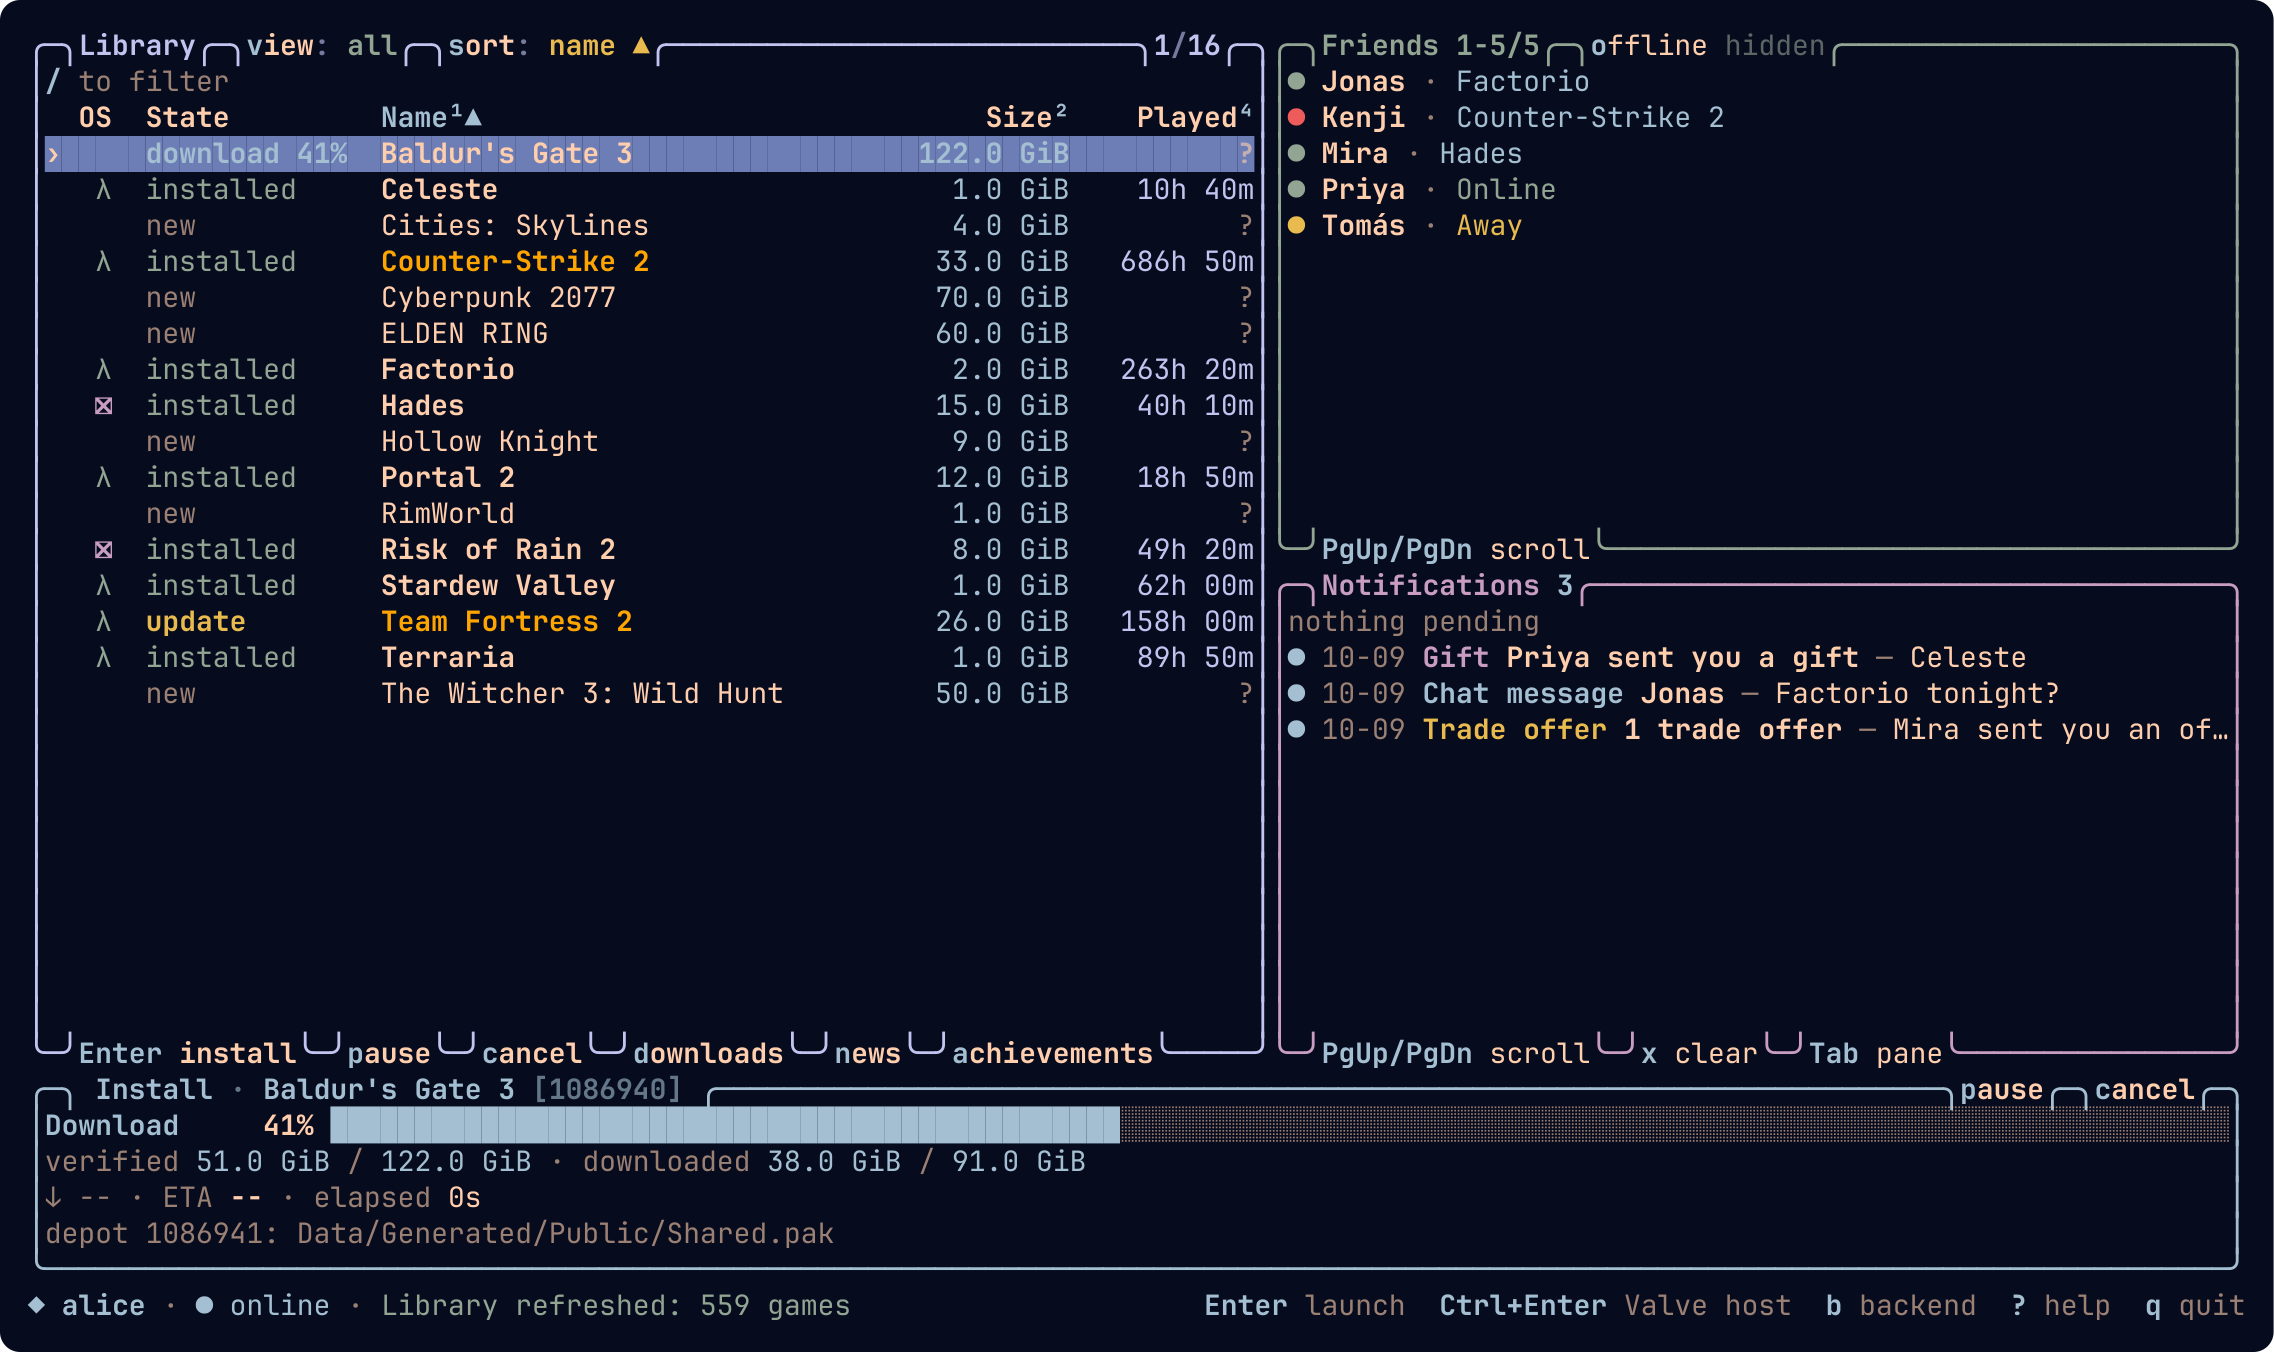
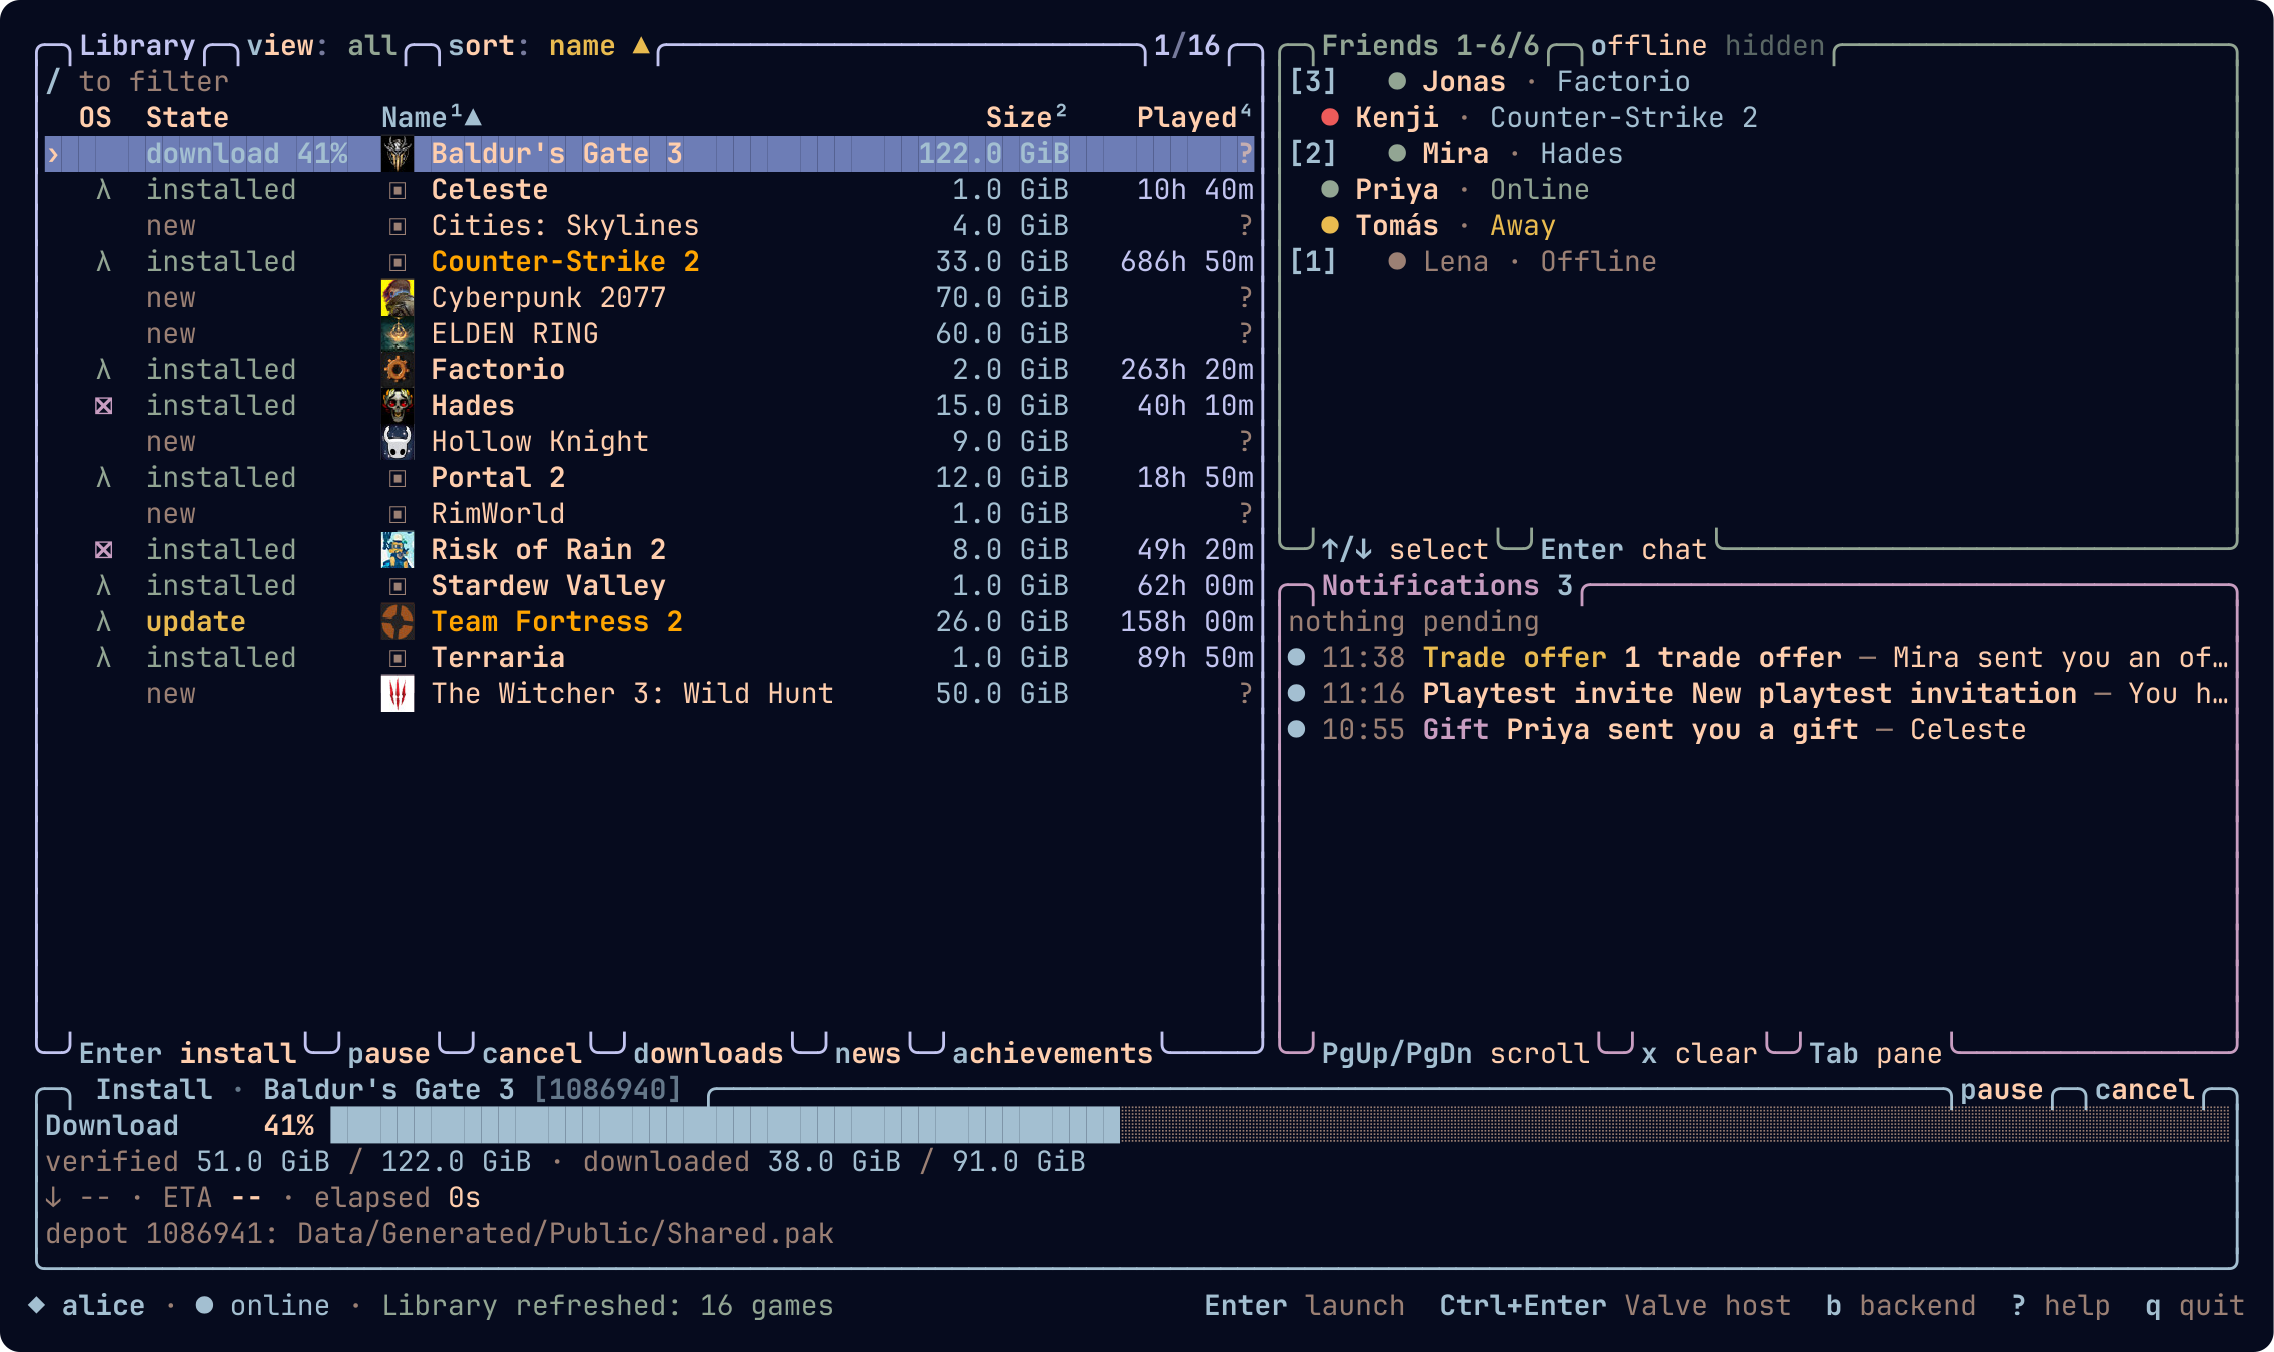
Refresh README screenshots and add chat showcase

diff --git a/crates/steam-tui/src/tui/render.rs b/crates/steam-tui/src/tui/render.rs
@@ -3833,9 +3833,9 @@ mod tests {
     /// `STEAM_TUI_SCREENSHOT=out.svg cargo test -p steam-tui readme_screenshot -- --ignored`
     /// and convert with `rsvg-convert -z 2 out.svg -o assets/screenshot.png`.
     /// Set `STEAM_TUI_SCREENSHOT_THEME` to a terminal theme (an Omarchy `alacritty.toml`) to colour it.
-    #[test]
+    #[tokio::test]
     #[ignore = "writes a file; run by hand"]
-    fn readme_screenshot() {
+    async fn readme_screenshot() {
         use ratatui::style::{Color, Modifier};
         use steam_core::catalog::{InstallPlatform, UpdateStatus};
         use steam_core::friends::{Friend, Presence};
@@ -4048,10 +4048,25 @@ mod tests {
             })
             .collect(),
         );
-        let now = 1_760_000_000;
+        model.chat.available = true;
+        for (index, unread) in [(0, 2), (1, 3), (5, 1)] {
+            model
+                .chat
+                .conversations
+                .entry(76_561_198_000_000_000 + index)
+                .or_default()
+                .unread = unread;
+        }
+        model.filter_chat_friends();
+        let now = 1_792_584_000;
         for (id, label, title, body) in [
             (1, "Trade offer", "1 trade offer", "Mira sent you an offer"),
-            (2, "Chat message", "Jonas", "Factorio tonight?"),
+            (
+                2,
+                "Playtest invite",
+                "New playtest invitation",
+                "You have been invited to a playtest",
+            ),
             (3, "Gift", "Priya sent you a gift", "Celeste"),
         ] {
             model.notification_event(NotificationEvent::Received(Notification {
@@ -4076,9 +4091,9 @@ mod tests {
             verify_bytes_total: 122 << 30,
             message: "depot 1086941: Data/Generated/Public/Shared.pak".into(),
         });
-        model.status = "Library refreshed: 559 games".into();
+        model.status = "Library refreshed: 16 games".into();
 
-        // Optional: STEAM_TUI_SCREENSHOT_SIZE=WxH and STEAM_TUI_SCREENSHOT_VIEW=conflict|filtered
+        // Optional: STEAM_TUI_SCREENSHOT_SIZE=WxH and STEAM_TUI_SCREENSHOT_VIEW=chat|conflict|filtered
         let (width, height) = std::env::var("STEAM_TUI_SCREENSHOT_SIZE")
             .ok()
             .and_then(|size| {
@@ -4086,6 +4101,7 @@ mod tests {
                 Some((w.parse().ok()?, h.parse().ok()?))
             })
             .unwrap_or((132u16, 36u16));
+        let mut shared_image = None;
         match std::env::var("STEAM_TUI_SCREENSHOT_VIEW").as_deref() {
             Ok("conflict") => {
                 use steam_core::cloud::{Conflict, SaveVersion};
@@ -4097,12 +4113,12 @@ mod tests {
                         local: Some(SaveVersion {
                             sha1: "9f2c1ab04d7e5513".into(),
                             size: 18_432,
-                            time: 1_759_900_000,
+                            time: now - 90_000,
                         }),
                         cloud: Some(SaveVersion {
                             sha1: "3b7e90d1c4a8f620".into(),
                             size: 17_920,
-                            time: 1_759_990_000,
+                            time: now - 1_000,
                         }),
                     }],
                     index: 0,
@@ -4111,12 +4127,104 @@ mod tests {
                     error: None,
                 });
             }
+            Ok("chat") => {
+                use steam_core::chat::Message;
+                model.install_active = false;
+                model.active_install = None;
+                model.progress = None;
+                model.focus = Focus::Friends;
+                let friend = 76_561_198_000_000_001;
+                model.friend_selected = model
+                    .friend_order
+                    .iter()
+                    .position(|&i| model.friends[i].steam_id == friend)
+                    .unwrap();
+                model.chat.active = Some(friend);
+                let conversation = model.chat.conversations.entry(friend).or_default();
+                conversation.unread = 0;
+                conversation.loaded = true;
+                conversation.history_loaded = true;
+                conversation.messages = [
+                    (false, "Factory night? I finally connected the northern outpost."),
+                    (true, "I'm in. Show me what you've been building!"),
+                    (false, "Took a break to explore. Found a pretty good spot for the next base.\nhttps://images.steamusercontent.com/ugc/demo/base.png"),
+                ].into_iter().enumerate().map(|(i, (outgoing, text))| Message {
+                    timestamp: now as u32 + i as u32 * 60,
+                    ordinal: 0,
+                    outgoing,
+                    text: text.into(),
+                }).collect();
+                conversation.draft = "That's the spot. I'll bring the supplies.".into();
+                conversation.cursor = conversation.draft.len();
+                conversation.typing = Some(Instant::now());
+                // Fictional shared image: a small pixel landscape, generated locally.
+                let landscape = image::RgbImage::from_fn(160, 80, |x, y| {
+                    let ridge = (37.0 + (x as f32 / 13.0).sin() * 9.0) as u32;
+                    let color = if y > 63 {
+                        [24, 49, 65]
+                    } else if y > ridge {
+                        [35, 65, 75]
+                    } else if (x as i32 - 115).pow(2) + (y as i32 - 23).pow(2) < 100 {
+                        [247, 196, 122]
+                    } else {
+                        [77 + y as u8, 87 + y as u8, 126 + y as u8]
+                    };
+                    image::Rgb(color)
+                });
+                let landscape = std::sync::Arc::new(image::DynamicImage::ImageRgb8(landscape));
+                shared_image = Some(landscape.clone());
+                model.chat.images.prepare_local(
+                    "https://images.steamusercontent.com/ugc/demo/base.png",
+                    landscape,
+                    (80, 12),
+                );
+            }
             Ok("filtered") => {
                 model.key(KeyEvent::new(KeyCode::Char('v'), KeyModifiers::NONE));
             }
             _ => {}
         }
         let mut terminal = Terminal::new(TestBackend::new(width, height)).unwrap();
+        terminal.draw(|frame| draw(frame, &mut model)).unwrap();
+        // Local artwork by default; opt in to public CDN downloads. No account connection is opened.
+        let download_icons = std::env::var_os("STEAM_TUI_SCREENSHOT_DOWNLOAD_ICONS").is_some();
+        let mut icons = Vec::new();
+        while let Some(request) = model.library_icons.pending.pop_front() {
+            let app_id = request.app_id;
+            let icon = steam_core::icons::load(app_id, download_icons)
+                .await
+                .unwrap_or(None);
+            if let Some(icon) = &icon {
+                icons.push((app_id, icon.image.clone()));
+            }
+            model
+                .library_icons
+                .loaded(super::super::library_icons::Loaded {
+                    app_id,
+                    generation: request.generation,
+                    result: Ok(icon),
+                });
+        }
+        // Remember icon slots before the placeholders are replaced by graphics.
+        let slots: Vec<_> = model
+            .library_hits
+            .iter()
+            .filter_map(|(rect, index)| {
+                let id = model.games[model.order[*index]].app_id;
+                let x = (rect.x..rect.right())
+                    .find(|&x| terminal.backend().buffer()[(x, rect.y)].symbol() == "▣")?;
+                Some((id, x, rect.y))
+            })
+            .collect();
+        terminal.draw(|frame| draw(frame, &mut model)).unwrap();
+        while let Some(request) = model.library_icons.images.pending.pop_front() {
+            let loaded = super::super::chat_images::load(request).await;
+            model.library_icons.images.loaded(loaded);
+        }
+        while let Some(request) = model.chat.images.pending.pop_front() {
+            let loaded = super::super::chat_images::load(request).await;
+            model.chat.images.loaded(loaded);
+        }
         terminal.draw(|frame| draw(frame, &mut model)).unwrap();
         let buffer = terminal.backend().buffer();
 
@@ -4217,6 +4325,61 @@ mod tests {
                     py + 13.5
                 ));
             }
+        }
+        if let Some(source) = shared_image {
+            // Native protocols fit the image into the reserved preview rectangle.
+            let image = source.to_rgb8();
+            let row = (0..height)
+                .find(|&y| {
+                    (0..width)
+                        .map(|x| buffer[(x, y)].symbol())
+                        .collect::<String>()
+                        .contains("https://images.steamusercontent.com/ugc/demo/base.png")
+                })
+                .expect("shared image URL is visible");
+            let x = modal_area(Rect::new(0, 0, width, height), 100, 32).x + 1;
+            let px = pad + x as f32 * cw;
+            let py = pad + (row + 1) as f32 * ch;
+            svg.push_str(&format!(
+                "<rect x=\"{px}\" y=\"{py}\" width=\"{}\" height=\"{}\" fill=\"{background}\"/>\n",
+                cw * 80.0,
+                ch * 12.0
+            ));
+            let scale = (cw * 80.0 / image.width() as f32).min(ch * 12.0 / image.height() as f32);
+            svg.push_str("<g shape-rendering=\"crispEdges\">\n");
+            for (ix, iy, pixel) in image.enumerate_pixels() {
+                let [r, g, b] = pixel.0;
+                svg.push_str(&format!("<rect x=\"{:.2}\" y=\"{:.2}\" width=\"{scale:.2}\" height=\"{scale:.2}\" fill=\"#{r:02x}{g:02x}{b:02x}\"/>\n", px + ix as f32 * scale, py + iy as f32 * scale));
+            }
+            svg.push_str("</g>\n");
+        }
+        // SVG has no terminal graphics channel. Paint the same local artwork
+        // into the renderer's icon slots to represent native image support.
+        for (app_id, x, y) in slots {
+            let Some((_, source)) = icons.iter().find(|(id, _)| *id == app_id) else {
+                continue;
+            };
+            let image = source.thumbnail(32, 32).to_rgba8();
+            let dimmed = model.chat.active.is_some() || model.cloud_conflicts.is_some();
+            let overlay = if model.chat.active.is_some() {
+                Some(modal_area(Rect::new(0, 0, width, height), 100, 32))
+            } else if model.cloud_conflicts.is_some() {
+                Some(modal_area(Rect::new(0, 0, width, height), 100, 14))
+            } else {
+                None
+            };
+            if overlay.is_some_and(|area| area.intersects(Rect::new(x, y, 2, 1))) {
+                continue;
+            }
+            let pw = cw * 2.0 / image.width() as f32;
+            let ph = ch / image.height() as f32;
+            svg.push_str("<g shape-rendering=\"crispEdges\">\n");
+            for (ix, iy, pixel) in image.enumerate_pixels() {
+                let [r, g, b, a] = pixel.0;
+                let opacity = f32::from(a) / 255.0 * if dimmed { 0.6 } else { 1.0 };
+                svg.push_str(&format!("<rect x=\"{:.2}\" y=\"{:.2}\" width=\"{pw:.2}\" height=\"{ph:.2}\" fill=\"#{r:02x}{g:02x}{b:02x}\" opacity=\"{opacity:.2}\"/>\n", pad + x as f32 * cw + ix as f32 * pw, pad + y as f32 * ch + iy as f32 * ph));
+            }
+            svg.push_str("</g>\n");
         }
         svg.push_str("</svg>\n");
         std::fs::write(path, svg).unwrap();

diff --git a/README.md b/README.md
@@ -4,7 +4,9 @@ Lightweight, fast TUI Steam client for Linux (built for Omarchy). Browse, instal
 
 Early state: some games won't work without original steam client.
 
-![steam-tui](assets/screenshot.png)
+![steam-tui library with game icons, unread friend badges, notifications, and an active download](assets/screenshot.png)
+
+*Demo screens use fictional accounts, friends, and messages.*
 
 - Starts in ~2 ms and uses ~30 MB of memory.
 - Install and update games (native and Proton), with a persistent queue, pause/resume, priorities and download windows.
@@ -19,7 +21,20 @@ Early state: some games won't work without original steam client.
 - Steam Cloud saves, with a side-by-side local/cloud conflict picker.
 - Games run on our own Steam backend, so no Steam process is needed.
 
-![save conflict picker](assets/conflict.png)
+## Chat
+
+Select a friend with ↑ / ↓ and press Enter. Read and send messages, preview shared
+images, and paste an image with Ctrl+V to attach it. Unread badges keep new messages
+visible in the friends list.
+
+![Chat with message history, a shared image preview, and a message draft](assets/chat.png)
+
+<details>
+<summary>Steam Cloud save conflict picker</summary>
+
+![Local and cloud saves compared side by side](assets/conflict.png)
+
+</details>
 
 ## Installation
 
@@ -152,7 +167,7 @@ Interface versions from SDK 0.99 to 1.65 are served, laid out from Valve's SDK h
 
 ## Not implemented yet
 
-Steam Input remapping and action sets, chat, game invites, publishing Workshop items, store and community pages, trading.
+Steam Input remapping and action sets, game invites, publishing Workshop items, store and community pages, trading.
 
 ## License
 
